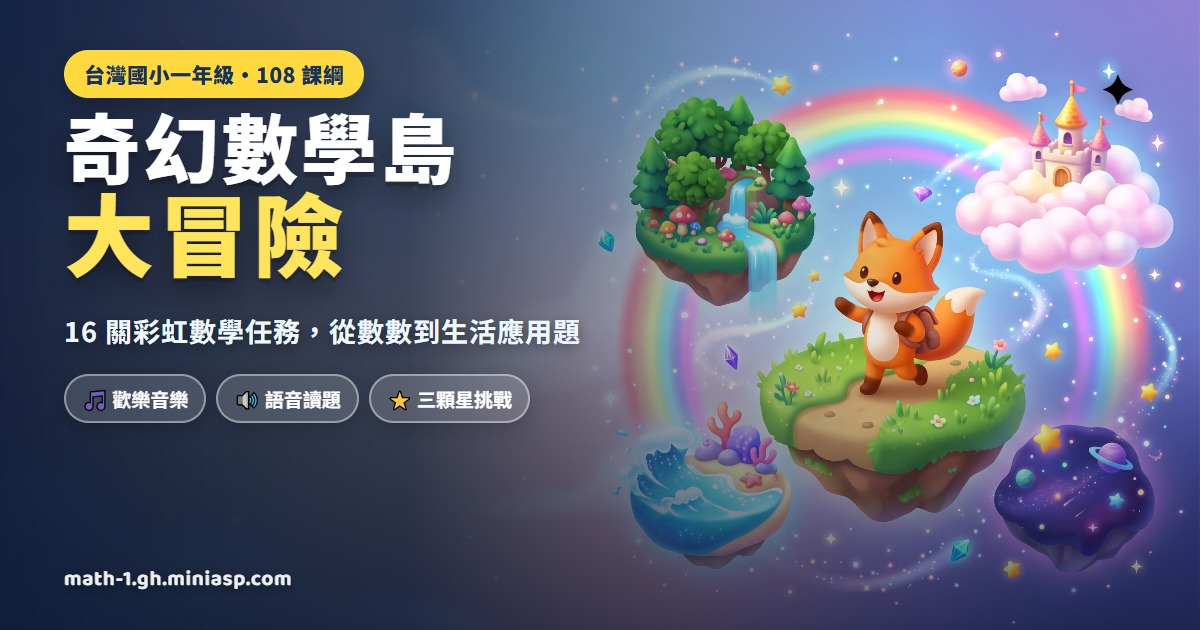
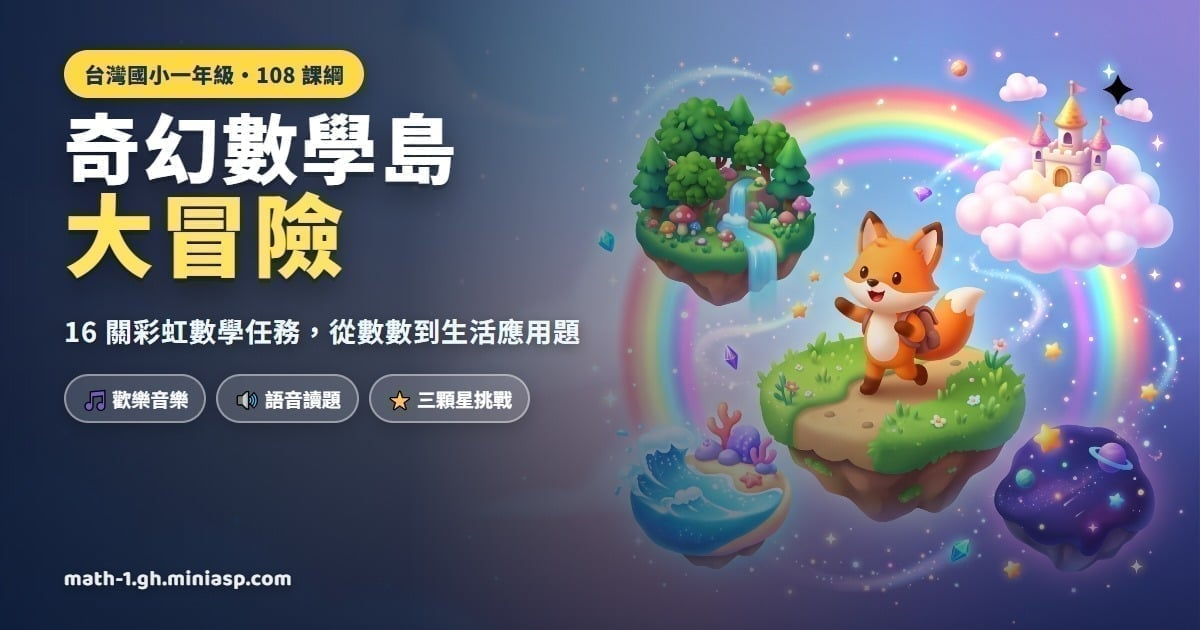
chore: include remaining assets and minified files

diff --git a/js/levels/island_defs_g2.min.js b/js/levels/island_defs_g2.min.js
@@ -1,0 +1,2 @@
+import{randInt,pick,shuffle,numberOptions,textOptions}from"../utils.js";export const g2_islands=[{id:1,name:"綠野仙蹤島",emoji:"🌲",theme:"forest",color:"#3fae6a",blurb:"200以內的數、二位數直式加法、二位數減法與直尺公分測量。",levels:[{id:1,island:1,title:"百數果園",emoji:"🍎",skill:"200以內的數",intro:"歡迎來到二年級的百數果園！我們一起來數一數超過一百的果子。",makeQuestions:(i=6)=>[]},{id:2,island:1,title:"直式加法小步梯",emoji:"🪜",skill:"二位數直式加法",intro:"小動物正在蓋積木梯！我們用直式把十位和個位加起來。",makeQuestions:(i=6)=>[]},{id:3,island:1,title:"退位減法大考驗",emoji:"🎯",skill:"二位數退位減法",intro:"個位不夠減怎麼辦？向十位借一個十，變成十再來減！",makeQuestions:(i=6)=>[]},{id:4,island:1,title:"小尺量世界",emoji:"📏",skill:"認識公分與長度",intro:"拿起小直尺，前端對齊零，我們能量出好多文具的長度！",makeQuestions:(i=6)=>[]}]},{id:2,name:"水晶冰川島",emoji:"🧊",theme:"ocean",color:"#2b9cdb",blurb:"兩步驟連加連減、時鐘幾點幾分、容量重量初步與平面立體形狀。",levels:[{id:5,island:2,title:"企鵝連環算",emoji:"🐧",skill:"兩步驟連加連減",intro:"先加後減、先減後加，小企鵝滑冰一步一步算得清清楚楚！",makeQuestions:(i=6)=>[]},{id:6,island:2,title:"時鐘滴答跳",emoji:"⏰",skill:"幾點幾分",intro:"分針走一大格是五分鐘！我們一起看時鐘上的幾點幾分。",makeQuestions:(i=6)=>[]},{id:7,island:2,title:"天平與水瓶",emoji:"⚖",skill:"容量與重量",intro:"天平哪一邊沉下去？水杯哪一個裝得多？動動腦比一比！",makeQuestions:(i=6)=>[]},{id:8,island:2,title:"立體形狀城",emoji:"🎲",skill:"正方體與立體形狀",intro:"正方體有六個面、八個頂點、十二條邊！一起來認識立體朋友。",makeQuestions:(i=6)=>[]}]},{id:3,name:"烈焰熔岩島",emoji:"🔥",theme:"cloud",color:"#ff7675",blurb:"同數連加乘法初步、九九乘法表大挑戰與乘法生活應用題。",levels:[{id:9,island:3,title:"同數連加小火苗",emoji:"✨",skill:"乘法初步概念",intro:"三堆草莓每堆四顆，四加四加四就是四乘三！乘法讓加法更快！",makeQuestions:(i=6)=>[]},{id:10,island:3,title:"乘法口訣飛車 (一)",emoji:"🏎",skill:"2、5、4、8 的乘法",intro:"二的跳數、五的結尾、四和八的倍數，乘法飛車全速前進！",makeQuestions:(i=6)=>[]},{id:11,island:3,title:"乘法九宮格 (二)",emoji:"⚡",skill:"3、6、9、7 的乘法",intro:"三七二十一、六六三十六、七八五十六、九九八十一，無敵大口訣！",makeQuestions:(i=6)=>[]},{id:12,island:3,title:"生活乘法小達人",emoji:"🛒",skill:"乘法生活應用題",intro:"買文具、分水果、排隊伍，生活中的算術用乘法一秒搞定！",makeQuestions:(i=6)=>[]}]},{id:4,name:"幻彩星河島",emoji:"🌌",theme:"space",color:"#443f9a",blurb:"1000以內的數、三位數加減心算、認識千元與百元錢幣、簡單分數二分之一。",levels:[{id:13,island:4,title:"千數星雲",emoji:"🪐",skill:"1000以內的數",intro:"十個一百就是一千！飛進浩瀚的千數星雲，探索四位數的奧祕！",makeQuestions:(i=6)=>[]},{id:14,island:4,title:"三位數心算流星",emoji:"💫",skill:"三位數加減法",intro:"三百加四百等於七百！整百整十的心算像流星一樣飛快！",makeQuestions:(i=6)=>[]},{id:15,island:4,title:"百元與千元金庫",emoji:"💰",skill:"認識大額錢幣",intro:"一百元鈔、五百元鈔、一千元大鈔，換錢付錢找錢我最拿手！",makeQuestions:(i=6)=>[]},{id:16,island:4,title:"分數小星球",emoji:"🍕",skill:"簡單分數初步",intro:"平分成兩份的一份是二分之一、四份是四分之一！恭喜登上二年級巔峰！",makeQuestions:(i=6)=>[]}]}];
+//# sourceMappingURL=island_defs_g2.min.js.map

diff --git a/js/state.min.js b/js/state.min.js
@@ -1,0 +1,2 @@
+const TOTAL_LEVELS=16,defaultState={unlocked:1,stars:{},best:{},musicOn:!0,ttsOn:!0,totalCorrect:0,playedLevels:[]};export function getCurrentGrade(){try{const t=localStorage.getItem("fantasy-math-current-grade");return t?Number(t):1}catch{return 1}}export function setCurrentGrade(t){const e=Number(t)||1;try{localStorage.setItem("fantasy-math-current-grade",String(e))}catch{}return state=load(e),e}function getStorageKey(t=getCurrentGrade()){return 1===Number(t)?"fantasy-math-island-progress-v1":`fantasy-math-island-progress-g${t}-v1`}function load(t=getCurrentGrade()){try{const e=getStorageKey(t),a=localStorage.getItem(e);if(!a)return{...defaultState};const r=JSON.parse(a);return{...defaultState,...r,stars:{...r.stars||{}},best:{...r.best||{}},playedLevels:Array.isArray(r.playedLevels)?r.playedLevels:[]}}catch{return{...defaultState}}}let state=load();export function getState(){return state}export function saveState(){try{const t=getStorageKey();localStorage.setItem(t,JSON.stringify(state))}catch{}}export function isUnlocked(t){return Number(t)<=Number(state.unlocked||1)}export function completeLevel(t,e,a=0){const r=Number(t),s=Math.max(1,Math.min(3,Number(e)||1)),n=Number(state.stars[r]||0);state.stars[r]=Math.max(n,s);const o=Number(state.best[r]||0);return state.best[r]=Math.max(o,a),state.unlocked=Math.max(Number(state.unlocked||1),Math.min(16,r+1)),state.totalCorrect=Number(state.totalCorrect||0)+a,state.playedLevels.includes(r)||state.playedLevels.push(r),saveState(),{previousStars:n,stars:state.stars[r]}}export function setMusicOn(t){state.musicOn=Boolean(t),saveState()}export function setTtsOn(t){state.ttsOn=Boolean(t),saveState()}export function totalStars(t=getCurrentGrade()){const e=t===getCurrentGrade()?state:load(t);return Object.values(e.stars||{}).reduce((t,e)=>t+Number(e||0),0)}export function completedCount(t=getCurrentGrade()){const e=t===getCurrentGrade()?state:load(t);return Object.keys(e.stars||{}).length}export function resetProgress(){state={...defaultState,musicOn:state.musicOn,ttsOn:state.ttsOn},saveState()}export function unlockedLevel(){return Math.min(16,Number(state.unlocked||1))}
+//# sourceMappingURL=state.min.js.map
